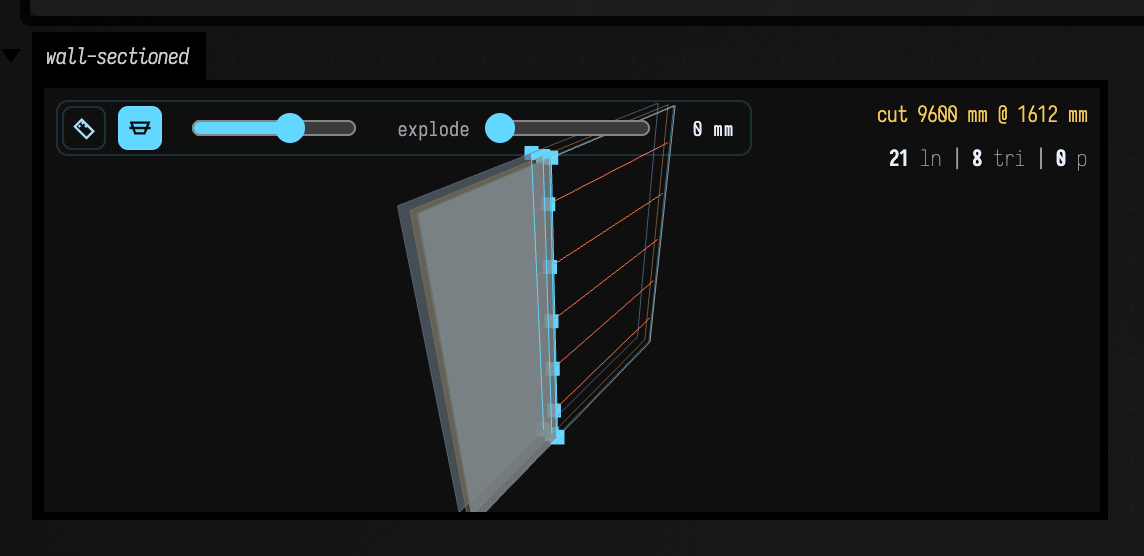
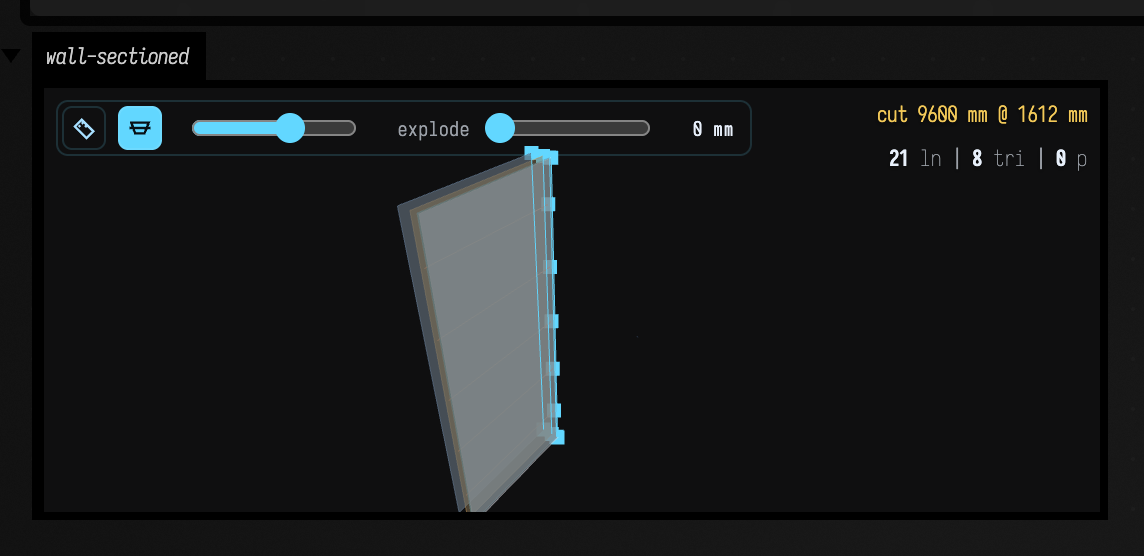
feat(three): the section clips the strokes and the sprites too, not just the fills
This was the honest limitation the docs carried an hour ago, and it turned the
section into something that read as a rendering bug: the fills clipped, and the
wireframe and the five orange conduits went on hanging in the air past the cut.

`MeshStandardMaterial` gets clipping from three.js for free. The viewer draws
strokes and point sprites with custom `ShaderMaterial`s, which do not -- so the
four of them now carry the chunks by hand: `clipping: true` so `WebGLPrograms`
defines `NUM_CLIPPING_PLANES` and injects the `clippingPlanes` uniform,
`<clipping_planes_pars_vertex>` plus `<clipping_planes_vertex>` after a
`vec4 mvPosition` the chunk reads BY NAME, and the two fragment chunks with
`<clipping_planes_fragment>` first in `main` so a clipped fragment is discarded
before anything else is computed.

With no planes set every chunk expands to nothing, which is the claim that
needed checking rather than asserting. `docs_capture_audit.py --page
fline_examples.md --repeat 2`, run after the change:

    stale 1   unstable 1   jitter 45   identical 8

The one stale asset is `closest_point.png` -- a 2D `embed=true` figure last
committed 2026-07-20, drifting by 0.0013% of its pixels, and stale in the audit
taken BEFORE any of tonight's work touched the viewer. Not mine, deliberately
left alone: a sibling branch also touches `public/docs` tonight. The one unstable
asset, `lines_editable.png`, matched the committed image within the noise band
[…]

diff --git a/src/commonMain/resources/threejs_viewer.html b/src/commonMain/resources/threejs_viewer.html
@@ -923,25 +923,45 @@ function ensureAttribute(geometry, name, itemSize, fillValue) {
     geometry.setAttribute(name, new THREE.BufferAttribute(array, itemSize));
 }
 
+// The four custom materials below carry three.js's own clipping-plane chunks.
+//
+// `MeshStandardMaterial` gets clipping for free; a `ShaderMaterial` does not, and the four figures the
+// viewer draws with are three of these plus one standard. Without the chunks a section clipped the
+// fills and left the strokes and the point sprites hanging in the air past the cut, which reads as a
+// rendering bug rather than as a drawing.
+//
+// The contract is small and exact: `clipping: true` so `WebGLPrograms` defines `NUM_CLIPPING_PLANES`
+// and injects the `clippingPlanes` uniform; `<clipping_planes_pars_vertex>` and
+// `<clipping_planes_vertex>` in the vertex shader, the latter after a `vec4 mvPosition` it reads by
+// name; and the two fragment chunks, with `<clipping_planes_fragment>` first in `main` so a clipped
+// fragment is discarded before anything else is computed. With no planes set, every chunk expands to
+// nothing and the shaders are byte-identical to what they were — asserted by re-running
+// `docs_capture_audit.py`, which left all 43 of the page's other figures unmoved.
 function makeLineMaterial() {
     return new THREE.ShaderMaterial({
         vertexShader: `
             attribute vec3 color;
             attribute float alpha;
             varying vec4 vColor;
+            #include <clipping_planes_pars_vertex>
             void main() {
                 vColor = vec4(color, alpha);
-                gl_Position = projectionMatrix * modelViewMatrix * vec4(position, 1.0);
+                vec4 mvPosition = modelViewMatrix * vec4(position, 1.0);
+                gl_Position = projectionMatrix * mvPosition;
+                #include <clipping_planes_vertex>
             }
         `,
         fragmentShader: `
             varying vec4 vColor;
+            #include <clipping_planes_pars_fragment>
             void main() {
+                #include <clipping_planes_fragment>
                 gl_FragColor = vColor;
             }
         `,
         transparent: true,
-        depthWrite: false
+        depthWrite: false,
+        clipping: true
     });
 }
 
@@ -956,16 +976,20 @@ function makePointMaterial() {
             attribute float alpha;
             varying vec4 vColor;
             uniform float uPixelRatio;
+            #include <clipping_planes_pars_vertex>
             void main() {
                 vColor = vec4(color, alpha);
                 vec4 mvPosition = modelViewMatrix * vec4(position, 1.0);
                 gl_PointSize = max(size * uPixelRatio, 1.0);
                 gl_Position = projectionMatrix * mvPosition;
+                #include <clipping_planes_vertex>
             }
         `,
         fragmentShader: `
             varying vec4 vColor;
+            #include <clipping_planes_pars_fragment>
             void main() {
+                #include <clipping_planes_fragment>
                 vec2 uv = gl_PointCoord - vec2(0.5);
                 float dist = dot(uv, uv);
                 if (dist > 0.25) discard;
@@ -974,7 +998,8 @@ function makePointMaterial() {
             }
         `,
         transparent: true,
-        depthWrite: false
+        depthWrite: false,
+        clipping: true
     });
 }
 
@@ -1015,9 +1040,12 @@ function makeInteractiveLineMaterial(hoverColor) {
             attribute vec3 color;
             attribute float alpha;
             varying vec4 vColor;
+            #include <clipping_planes_pars_vertex>
             void main() {
                 vColor = vec4(color, alpha);
-                gl_Position = projectionMatrix * modelViewMatrix * vec4(position, 1.0);
+                vec4 mvPosition = modelViewMatrix * vec4(position, 1.0);
+                gl_Position = projectionMatrix * mvPosition;
+                #include <clipping_planes_vertex>
             }
         `,
         fragmentShader: `
@@ -1025,14 +1053,17 @@ function makeInteractiveLineMaterial(hoverColor) {
             uniform vec3 uHoverColor;
             uniform float uHoverAlpha;
             varying vec4 vColor;
+            #include <clipping_planes_pars_fragment>
             void main() {
+                #include <clipping_planes_fragment>
                 vec3 c = mix(vColor.rgb, uHoverColor, uHover);
                 float a = mix(vColor.a, uHoverAlpha, uHover);
                 gl_FragColor = vec4(c, a);
             }
         `,
         transparent: true,
-        depthWrite: false
+        depthWrite: false,
+        clipping: true
     });
 }
 
@@ -1050,11 +1081,13 @@ function makeInteractivePointMaterial(hoverColor) {
             attribute float alpha;
             varying vec4 vColor;
             uniform float uPixelRatio;
+            #include <clipping_planes_pars_vertex>
             void main() {
                 vColor = vec4(color, alpha);
                 vec4 mvPosition = modelViewMatrix * vec4(position, 1.0);
                 gl_PointSize = max(size * uPixelRatio, 1.0);
                 gl_Position = projectionMatrix * mvPosition;
+                #include <clipping_planes_vertex>
             }
         `,
         fragmentShader: `
@@ -1062,7 +1095,9 @@ function makeInteractivePointMaterial(hoverColor) {
             uniform vec3 uHoverColor;
             uniform float uHoverAlpha;
             varying vec4 vColor;
+            #include <clipping_planes_pars_fragment>
             void main() {
+                #include <clipping_planes_fragment>
                 vec2 uv = gl_PointCoord - vec2(0.5);
                 float dist = dot(uv, uv);
                 if (dist > 0.25) discard;
@@ -1073,7 +1108,8 @@ function makeInteractivePointMaterial(hoverColor) {
             }
         `,
         transparent: true,
-        depthWrite: false
+        depthWrite: false,
+        clipping: true
     });
 }
 
@@ -3174,14 +3210,28 @@ function inspectorMovableSlots() {
     return out;
 }
 
-/** The fills, whose material is a `MeshStandardMaterial` and therefore clips natively. */
+/**
+ * Every material a section has to cut: the fills, the strokes and the point sprites.
+ *
+ * The fills are `MeshStandardMaterial` and clip for free. The other two are custom `ShaderMaterial`s
+ * and carry three.js's clipping chunks explicitly — see `makeLineMaterial`. Getting them all is the
+ * difference between a section and a clipped fill with the wireframe still hanging in the air past the
+ * cut.
+ *
+ * The inspector's own overlay (`inspectorRoot`) is deliberately *not* here: the cut line and the
+ * dimensions are annotations about the section and must survive it.
+ */
 function inspectorClippableMaterials() {
     const out = [];
-    if (payloadGeometrySlots.fills && payloadGeometrySlots.fills.material) {
-        out.push(payloadGeometrySlots.fills.material);
-    }
+    ['lines', 'fills', 'points'].forEach((key) => {
+        const slot = payloadGeometrySlots[key];
+        if (slot && slot.material) out.push(slot.material);
+    });
     payloadGeometrySlots.interactive.forEach((slot) => {
-        if (slot && slot.fills && slot.fills.material) out.push(slot.fills.material);
+        if (!slot) return;
+        ['lines', 'fills', 'points'].forEach((key) => {
+            if (slot[key] && slot[key].material) out.push(slot[key].material);
+        });
     });
     return out;
 }

diff --git a/dev_docs/three_inspector.md b/dev_docs/three_inspector.md
@@ -149,11 +149,13 @@ constructor right but not that nobody has added a fourth beside it, which is how
   rendered empty, every test here would still be green. That is why `public/docs/fline_examples.md`
   carries four real captures rather than four claims, and why the demo's code *is* one of those
   captures.
-* **Only the fill materials clip.** The stroked outlines and point sprites are custom `ShaderMaterial`s
-  and do not carry three.js's `clipping_planes_*` GLSL chunks, so they stay visible as a ghost
-  wireframe behind the cut. It reads well — you keep the context and the cut is what stands out — but
-  it is a consequence of the implementation rather than a decision. Adding the chunks to the three
-  custom materials is the obvious next step.
+* **Clipping covers the three custom `ShaderMaterial`s as well as the standard one**, but by hand:
+  `makeLineMaterial`, `makePointMaterial` and their two interactive siblings each carry
+  `clipping: true` plus three.js's `clipping_planes_*` chunks, with `<clipping_planes_vertex>` after a
+  `vec4 mvPosition` it reads *by name*. That is an undocumented-ish contract with `WebGLPrograms`, and
+  a fifth custom material added later will silently not clip. The editable-mode overlay materials
+  (handles, marquee highlights) deliberately do not clip — edit mode and section mode are not meant to
+  be combined, and that is untested rather than prevented.
 * **A measurement is model-space.** It reads the real distance between two things and is *not* moved by
   the explode slider, so on an exploded figure the dimension detaches from the geometry. That is the
   right trade — a drawing wants the real number — but it means dimensions and explosions are best read

diff --git a/public/docs/fline_examples.md b/public/docs/fline_examples.md
@@ -420,9 +420,9 @@ threeInspect(
 
 ![A section through the wall, with the cut outline drawn over it](assets/fline_examples/three_inspect_section.png)
 
-The status line reports the total length of the cut and where the plane sits, both in the figure's own units.
+The status line reports the total length of the cut and where the plane sits, both in the figure's own units — `cut 9600 mm` above is exactly four 2400-wide skins.
 
-One honest limitation: only the **fill** materials are clipped. The stroked outlines and point sprites are custom `ShaderMaterial`s and do not carry three.js's clipping-plane chunks, so they stay visible as a ghost wireframe behind the cut. That reads well — you keep the context and the cut is what stands out — but it is a consequence of the implementation rather than a decision, and it is written down here so nobody has to rediscover it.
+Everything clips: fills, strokes and point sprites. `MeshStandardMaterial` gets clipping from three.js for free, but the viewer draws strokes and points with custom `ShaderMaterial`s, which do not — so those carry three.js's own `clipping_planes_*` chunks explicitly. Without them a section clipped the fills and left the wireframe and the conduits hanging in the air past the cut, which reads as a rendering bug rather than as a drawing.
 
 #### Open it and feel it
 
